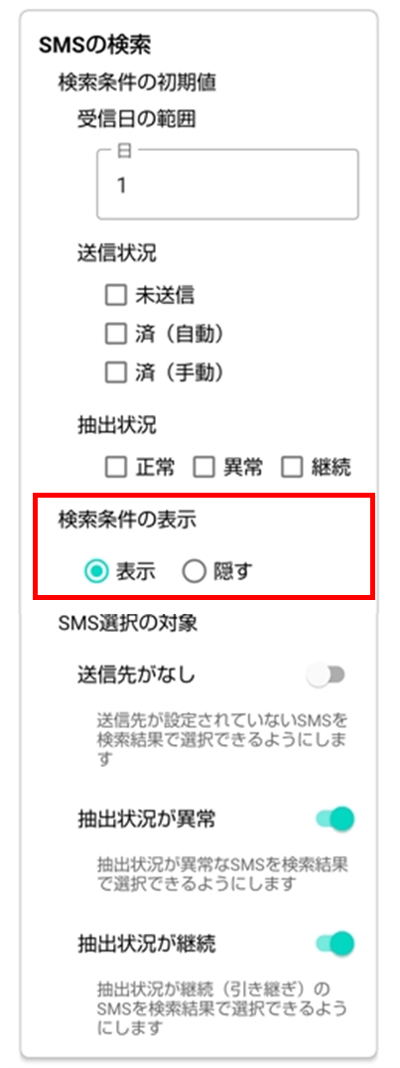
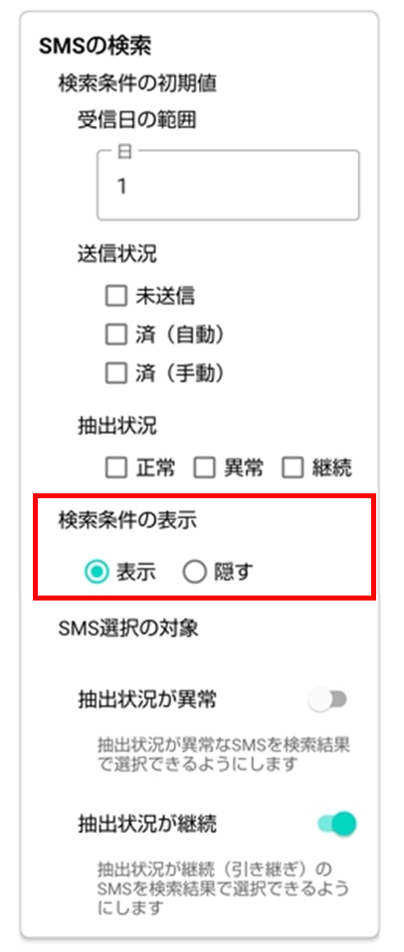
md

Changed region(s): [[0.06, 0.0, 0.96, 1.0]]

diff --git a/tool/smstokintone/app/src/main/java/com/ssfrontier/smstokintone/SettingsStore.kt b/tool/smstokintone/app/src/main/java/com/ssfrontier/smstokintone/SettingsStore.kt
@@ -22,8 +22,6 @@ object SettingsStore {
     private const val KEY_SEARCH_EXTRACTION_FAILED_ENABLED = "search_extraction_failed_enabled"
     /** [Config.searchExtractionContinuedEnabled]のキー */
     private const val KEY_SEARCH_EXTRACTION_CONTINUED_ENABLED = "search_extraction_continued_enabled"
-    /** [Config.searchSendTargetUnconfiguredEnabled]のキー */
-    private const val KEY_SEARCH_SEND_TARGET_UNCONFIGURED_ENABLED = "search_send_target_unconfigured_enabled"
     /** [Config.autoReplyExtractionFailedEnabled]のキー */
     private const val KEY_AUTO_REPLY_EXTRACTION_FAILED_ENABLED = "auto_reply_extraction_failed_enabled"
     /** [Config.autoReplyCooldownSeconds]のキー */
@@ -163,8 +161,6 @@ object SettingsStore {
         val searchExtractionFailedEnabled: Boolean,
         /** SMS検索画面で、抽出状況が継続（継続SMS、[SmsResolution.isContinuation]）のSMSを選択可能にするかどうか */
         val searchExtractionContinuedEnabled: Boolean,
-        /** SMS検索画面で、送信先が未設定（一致する送信先が無い、または不正）のSMSを選択可能にするかどうか */
-        val searchSendTargetUnconfiguredEnabled: Boolean,
         /** 自動受信時、本文の抽出状況が異常なSMSに対して[extractionFailedReplyAddition]の文言でSMSへ自動返信するかどうか */
         val autoReplyExtractionFailedEnabled: Boolean,
         /** 同一の送信元への自動返信を再送信するまでの間隔（秒）。連投を防ぐためのクールダウン */
@@ -346,7 +342,6 @@ object SettingsStore {
             .putBoolean(KEY_SEND_EXTRACTION_CONTINUED_ENABLED, config.sendExtractionContinuedEnabled)
             .putBoolean(KEY_SEARCH_EXTRACTION_FAILED_ENABLED, config.searchExtractionFailedEnabled)
             .putBoolean(KEY_SEARCH_EXTRACTION_CONTINUED_ENABLED, config.searchExtractionContinuedEnabled)
-            .putBoolean(KEY_SEARCH_SEND_TARGET_UNCONFIGURED_ENABLED, config.searchSendTargetUnconfiguredEnabled)
             .putBoolean(KEY_AUTO_REPLY_EXTRACTION_FAILED_ENABLED, config.autoReplyExtractionFailedEnabled)
             .putInt(KEY_AUTO_REPLY_COOLDOWN_SECONDS, config.autoReplyCooldownSeconds)
             .putBoolean(KEY_AUTO_REFRESH_ENABLED, config.autoRefreshEnabled)
@@ -386,7 +381,6 @@ object SettingsStore {
         sendExtractionContinuedEnabled = true,
         searchExtractionFailedEnabled = false,
         searchExtractionContinuedEnabled = true,
-        searchSendTargetUnconfiguredEnabled = false,
         autoReplyExtractionFailedEnabled = false,
         autoReplyCooldownSeconds = AppDefaults.AUTO_REPLY_COOLDOWN_SECONDS,
         autoRefreshEnabled = true,
@@ -420,10 +414,6 @@ object SettingsStore {
             sendExtractionContinuedEnabled = p.getBoolean(KEY_SEND_EXTRACTION_CONTINUED_ENABLED, DEFAULT_CONFIG.sendExtractionContinuedEnabled),
             searchExtractionFailedEnabled = p.getBoolean(KEY_SEARCH_EXTRACTION_FAILED_ENABLED, DEFAULT_CONFIG.searchExtractionFailedEnabled),
             searchExtractionContinuedEnabled = p.getBoolean(KEY_SEARCH_EXTRACTION_CONTINUED_ENABLED, DEFAULT_CONFIG.searchExtractionContinuedEnabled),
-            searchSendTargetUnconfiguredEnabled = p.getBoolean(
-                KEY_SEARCH_SEND_TARGET_UNCONFIGURED_ENABLED,
-                DEFAULT_CONFIG.searchSendTargetUnconfiguredEnabled
-            ),
             autoReplyExtractionFailedEnabled = p.getBoolean(KEY_AUTO_REPLY_EXTRACTION_FAILED_ENABLED, DEFAULT_CONFIG.autoReplyExtractionFailedEnabled),
             autoReplyCooldownSeconds = p.getInt(KEY_AUTO_REPLY_COOLDOWN_SECONDS, DEFAULT_CONFIG.autoReplyCooldownSeconds),
             autoRefreshEnabled = p.getBoolean(KEY_AUTO_REFRESH_ENABLED, DEFAULT_CONFIG.autoRefreshEnabled),

diff --git a/tool/smstokintone/app/src/main/java/com/ssfrontier/smstokintone/SmsSearchActivity.kt b/tool/smstokintone/app/src/main/java/com/ssfrontier/smstokintone/SmsSearchActivity.kt
@@ -405,7 +405,7 @@ class SmsSearchActivity : AppCompatActivity() {
             val isAutoReplied = record.id in autoRepliedEntries
             val sentEntry = sentEntries[record.id]
             val isExtractionFailedBody = resolution.smsParts.isExtractionFailed()
-            val isSelectable = (!isSendTargetUnconfigured || config.searchSendTargetUnconfiguredEnabled) &&
+            val isSelectable = !isSendTargetUnconfigured &&
                 (!isExtractionFailedBody || config.searchExtractionFailedEnabled) &&
                 (!resolution.isContinuation || config.searchExtractionContinuedEnabled)
             val sendTargetColor = ContextCompat.getColor(this@SmsSearchActivity, R.color.send_target_name)
@@ -587,8 +587,8 @@ class SmsSearchActivity : AppCompatActivity() {
 
     /** [selectedIds]の一括送信が完了した際に、結果をトーストで通知する */
     private fun onSendBatchFinished(selectedIds: Set<Long>) {
-        // 送信先が未設定の場合は送信開始(SEND_START)のみが記録され送信完了(SEND_COMPLETE)は
-        // 記録されないため、smsIdごとに最新の1件（開始・完了どちらか）を結果として扱う
+        // 送信先が未設定のSMSはこの画面では選択できず送信開始(SEND_START)しか記録されないケースは
+        // 発生しないが、smsIdごとに最新の1件（開始・完了どちらか）を結果として扱うようにしておく
         val latestCompleteEntryPerSms = SmsLogStore.getAll(this)
             .filter { it.type != SmsLogStore.EntryType.RECEIVE && it.smsId in selectedIds }
             .groupBy { it.smsId }

diff --git a/tool/smstokintone/app/src/main/java/com/ssfrontier/smstokintone/AppSettingsActivity.kt b/tool/smstokintone/app/src/main/java/com/ssfrontier/smstokintone/AppSettingsActivity.kt
@@ -108,11 +108,6 @@ class AppSettingsActivity : AppCompatActivity() {
             SettingsStore.update(this) { it.copy(searchExtractionContinuedEnabled = isChecked) }
         }
 
-        binding.swSearchSendTargetUnconfiguredEnabled.isChecked = SettingsStore.load(this).searchSendTargetUnconfiguredEnabled
-        binding.swSearchSendTargetUnconfiguredEnabled.setOnCheckedChangeListener { _, isChecked ->
-            SettingsStore.update(this) { it.copy(searchSendTargetUnconfiguredEnabled = isChecked) }
-        }
-
         // SMS返信の手動/自動は、SMS送信の送信モードとは独立して管理する
         val autoReplyExtractionFailedEnabled = SettingsStore.load(this).autoReplyExtractionFailedEnabled
         binding.rbSmsReplyModeAuto.isChecked = autoReplyExtractionFailedEnabled

diff --git a/tool/smstokintone/docs/開催パターン別の設定例.md b/tool/smstokintone/docs/開催パターン別の設定例.md
@@ -52,7 +52,7 @@
   - 自動送信の対象「抽出状況が異常」を**含めない**
     - 会社名を抽出できないSMSは、どの開催のものか判別できずどの送信先にも振り分けられません（送信先未設定として扱われます）。自動送信の対象から外し、手動で内容を確認してください。
 - SMSの検索（SMS選択の対象）
-  - 「送信先がなし」「抽出状況が異常」の両方を選択可能にしておくことを推奨します。会社名の抽出に失敗した場合だけでなく、キーワードに一致しない（未登録の会社名の）SMSも「送信先がなし」として扱われるため、どちらも手動で拾えるようにしておく必要があります。
+  - 「抽出状況が異常」を選択可能にしておくことを推奨します。なお、送信先が未設定（キーワードに一致しない＝未登録の会社名）のSMSは検索画面から選択・手動送信することができないため、そのようなSMSが見つかった場合は該当する送信先のキーワードを追加して解消してください。
 
 
 <div class="pagebreak"></div>
@@ -70,4 +70,4 @@
   - 自動送信の対象「抽出状況が異常」を**含めない**
     - 会社名を抽出できないSMSは、どの開催のものか判別できずどの送信先にも振り分けられません（送信先未設定として扱われます）。自動送信の対象から外し、手動で内容を確認してください。
 - SMSの検索（SMS選択の対象）
-  - 「送信先がなし」「抽出状況が異常」の両方を選択可能にしておくことを推奨します。会社名の抽出に失敗した場合だけでなく、キーワードに一致しない（未登録の会社名の）SMSも「送信先がなし」として扱われるため、どちらも手動で拾えるようにしておく必要があります。
+  - 「抽出状況が異常」を選択可能にしておくことを推奨します。なお、送信先が未設定（キーワードに一致しない＝未登録の会社名）のSMSは検索画面から選択・手動送信することができないため、そのようなSMSが見つかった場合は該当する送信先のキーワードを追加して解消してください。

diff --git a/tool/smstokintone/docs/マニュアル.md b/tool/smstokintone/docs/マニュアル.md
@@ -186,7 +186,7 @@
 - 本文全体
 - すでに送信済みのSMSは、自動送信なら青系、手動送信ならアンバー系の背景色でもハイライトされます
 
-　送信先が未設定、本文の抽出状況が異常、または抽出状況が継続（引き継ぎによるもの）のSMSについて、それぞれチェックボックスで選択できるかどうかは[アプリの設定画面](#アプリの設定画面)の「SMS選択の対象」で切り替えられます。
+　送信先が未設定のSMSはチェックボックスで選択できません。本文の抽出状況が異常、または抽出状況が継続（引き継ぎによるもの）のSMSについては、それぞれチェックボックスで選択できるかどうかを[アプリの設定画面](#アプリの設定画面)の「SMS選択の対象」で切り替えられます。
 
 <p float="left">
   <img src="screenshots/sms_search_list.png" alt="SMSの一覧表示" width="300">
@@ -529,7 +529,6 @@ kintoneの設定:
 
 　[SMSの検索画面](#SMSの検索画面)の一覧で、以下に該当するSMSをチェックボックスで選択できるようにするかどうかを、それぞれ個別に設定します。ONにすると、その一覧から選んで手動送信できるようになります。
 
-- 送信先がなし
 - 抽出状況が異常
 - 抽出状況が継続（引き継ぎによるSMS）
 
